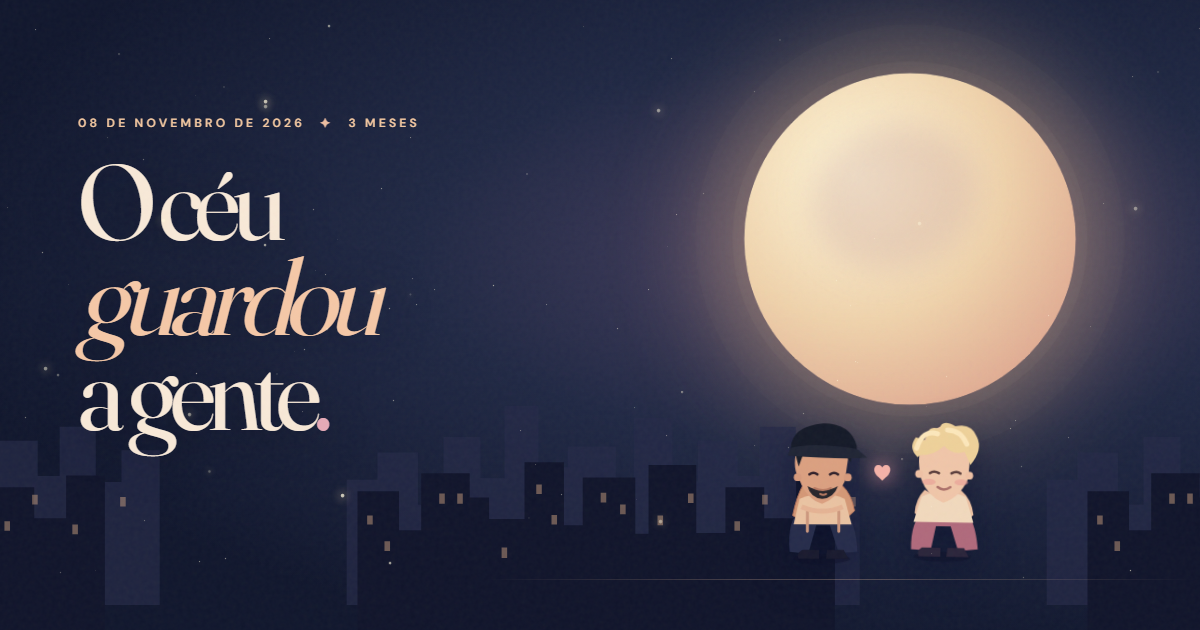
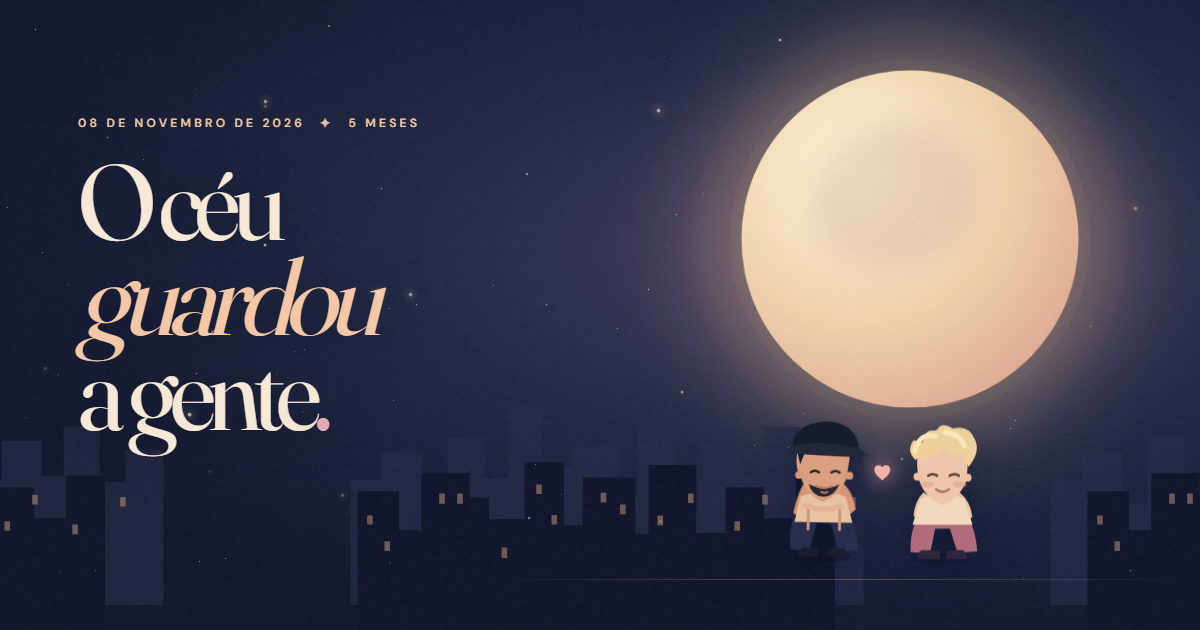
Corrigir aniversario: cinco meses desde 8 de junho

diff --git a/index.html b/index.html
@@ -78,7 +78,7 @@
       <div class="meteor meteor-one" aria-hidden="true"></div>
       <div class="meteor meteor-two" aria-hidden="true"></div>
       <div class="intro-content">
-        <p class="eyebrow reveal">08 de novembro de 2026 <span>✦</span> 3 meses</p>
+        <p class="eyebrow reveal">08 de novembro de 2026 <span>✦</span> 5 meses</p>
         <h1 class="intro-title reveal">O céu<br><em>guardou</em><br>a gente<span class="punct">.</span></h1>
         <p class="intro-subtitle reveal">Tem histórias que o tempo não consegue medir.<br>Esta é a nossa.</p>
         <button class="primary-cta reveal" data-next type="button"><span>Descobrir nossa história</span><span class="cta-arrow">↗</span></button>
@@ -98,7 +98,7 @@
       <div class="far-mountains" aria-hidden="true"></div>
       <div class="near-mountains" aria-hidden="true"></div>
       <div class="scene-heading">
-        <p class="eyebrow">capítulo 01 <span>✦</span> 20.06.2026</p>
+        <p class="eyebrow">capítulo 01 <span>✦</span> 08.06.2026</p>
         <h2>Foi bonito<br><em>te encontrar.</em></h2>
         <p class="scene-intro-text">Algumas luzes só aparecem quando a pessoa certa chega. Toque nas três luzinhas para descobrir.</p>
       </div>
@@ -121,9 +121,9 @@
     <section class="scene scene-closer" data-scene="2" aria-label="O dia em que viramos nós">
       <div class="closer-rays" aria-hidden="true"></div>
       <div class="scene-heading">
-        <p class="eyebrow">capítulo 02 <span>✦</span> 08.08.2026</p>
+        <p class="eyebrow">capítulo 02 <span>✦</span> 08.07.2026</p>
         <h2>De repente,<br>era <em>nós dois.</em></h2>
-        <p class="scene-intro-text">Dois caminhos diferentes. E, desde aquele dia, uma vontade enorme de caminhar juntinhos.</p>
+        <p class="scene-intro-text">Um mês do nosso começo e tanta vontade de continuar caminhando juntinhos.</p>
       </div>
       <div class="closeness-stage" id="closenessStage">
         <div class="joining-orbit" aria-hidden="true"></div>
@@ -140,13 +140,13 @@
     </section>
 
     <!-- Present time -->
-    <section class="scene scene-today" data-scene="3" aria-label="Três meses de nós">
+    <section class="scene scene-today" data-scene="3" aria-label="Cinco meses de nós">
       <div class="sunrise" aria-hidden="true"></div>
       <div class="hills hills-back"></div>
       <div class="hills hills-front"></div>
       <div class="scene-heading">
         <p class="eyebrow">capítulo 03 <span>✦</span> 08.11.2026</p>
-        <h2>Três meses.<br><em>Infinitas razões.</em></h2>
+        <h2>Cinco meses.<br><em>Infinitas razões.</em></h2>
         <p class="scene-intro-text">Tem coisas pequenas que viram meu mundo inteiro quando são com você.</p>
       </div>
       <div class="petal-scene" id="petalScene" aria-hidden="true">
@@ -176,10 +176,10 @@
         <p class="eyebrow">uma última coisinha...</p>
         <h2>Para você,<br><em>meu Lil.</em></h2>
         <div class="letter" id="letter">
-          <p>Desde 20 de junho, o mundo tem um detalhe a mais que eu não quero perder: <strong>você nele.</strong></p>
-          <p>Hoje fazemos três meses de namoro. Não significa que tudo seja sempre perfeito, mas significa que, entre tantos dias e caminhos, <strong>eu continuo querendo viver os meus ao seu lado.</strong></p>
+          <p>Desde 8 de junho, o mundo tem um detalhe a mais que eu não quero perder: <strong>você nele.</strong></p>
+          <p>Hoje fazemos cinco meses de namoro. Não significa que tudo seja sempre perfeito, mas significa que, entre tantos dias e caminhos, <strong>eu continuo querendo viver os meus ao seu lado.</strong></p>
           <p>Quero mais risadas bobas, abraços demorados, passeios sem pressa e mil coisas que a gente ainda nem imagina.</p>
-          <p>Obrigado por existir na minha vida. <strong>Feliz três meses, meu amor.</strong> 💛</p>
+          <p>Obrigado por existir na minha vida. <strong>Feliz cinco meses, meu amor.</strong> 💛</p>
           <div class="signature">Com amor,<br><span>seu Ander ♡</span></div>
         </div>
         <div class="finale-actions">
@@ -187,7 +187,7 @@
           <button class="quiet-cta" id="replayButton" type="button">↶ Viver tudo de novo</button>
         </div>
       </div>
-      <p class="footer-date">20.06 — o começo <span>✦</span> 08.08 — nós <span>✦</span> 08.11 — 3 meses</p>
+      <p class="footer-date">08.06 — nosso começo <span>✦</span> 08.07 — nosso primeiro mês <span>✦</span> 08.11 — 5 meses</p>
     </section>
   </main>
   <div class="toast" id="toast" role="status" aria-live="polite"></div>

diff --git a/script.js b/script.js
@@ -6,7 +6,7 @@
   const soundButton = $("#soundButton");
   const progressBar = $("#progressBar");
   const chapterIndicator = $("#chapterIndicator");
-  const labels = ["um presente para você", "01 / o encontro", "02 / o nosso sim", "03 / hoje", "uma carta para Lil"];
+  const labels = ["um presente para você", "01 / o encontro", "02 / nossos passos", "03 / hoje", "uma carta para Lil"];
   let current = 0;
   let soundEnabled = false;
   let context = null;
@@ -103,7 +103,7 @@
   stars.appendChild(fragment);
 
   const fireflyLines = [
-    "20 de junho: uma data pequena, um começo gigante.",
+    "8 de junho: uma data pequena, um começo gigante.",
     "No meio de tanta gente, foi tão bonito encontrar você.",
     "Ainda bem que a vida colocou nossos caminhos lado a lado."
   ];

diff --git a/README.md b/README.md
@@ -1,11 +1,11 @@
 # O céu guardou a gente ✦
 
-Presente interativo mobile-first de Ander para Lil: três meses de namoro, em 08 de novembro de 2026.
+Presente interativo mobile-first de Ander para Lil: cinco meses de namoro, em 08 de novembro de 2026.
 
 ## Experiência
 - Introdução cinematográfica com céu, lua, cidade e protagonistas ilustrados em SVG.
-- Acender três luzinhas do primeiro encontro (20/06/2026).
-- Aproximar Ander e Lil com gesto de deslizar, no início do namoro (08/08/2026).
+- Acender três luzinhas do primeiro encontro (08/06/2026).
+- Aproximar Ander e Lil com gesto de deslizar, no primeiro mês de namoro (08/07/2026).
 - Descobrir três pedacinhos do relacionamento no dia do aniversário (08/11/2026).
 - Carta final e compartilhamento nativo pelo celular.
 
